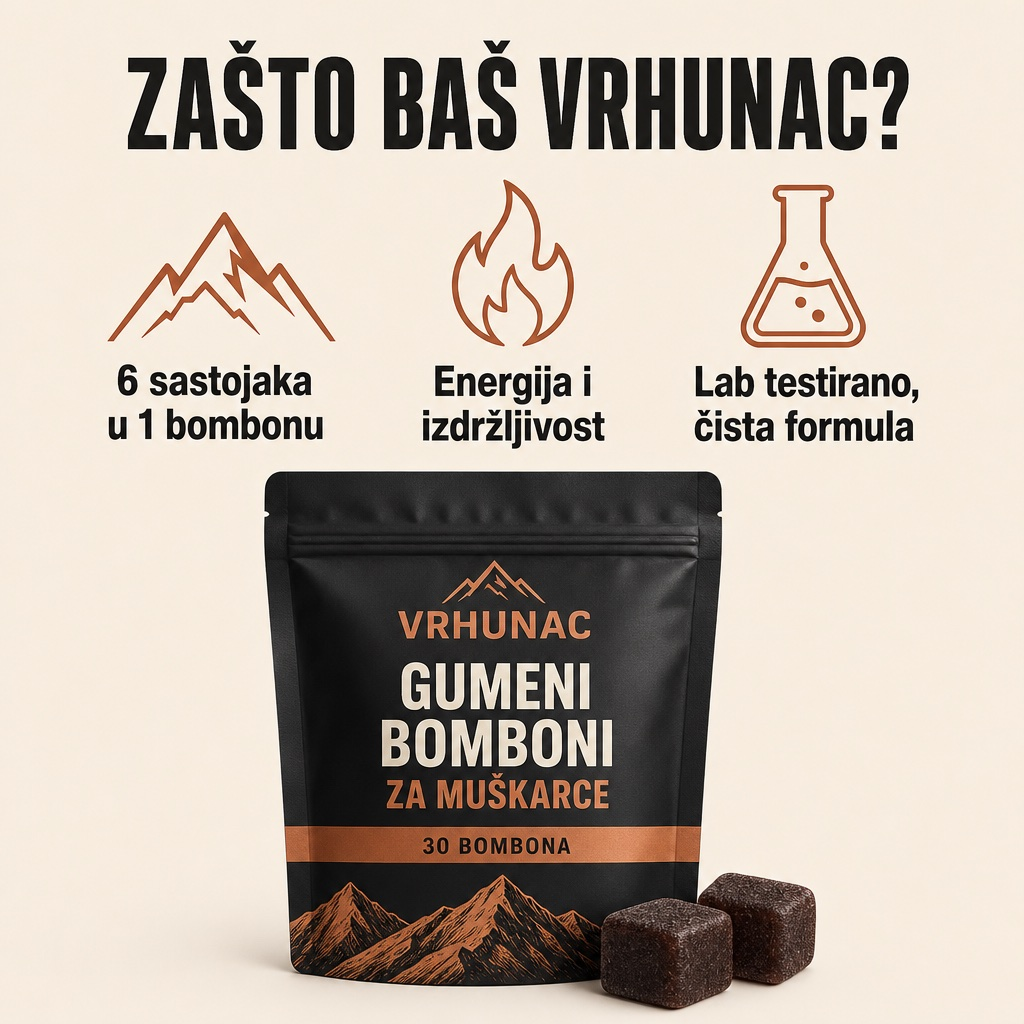
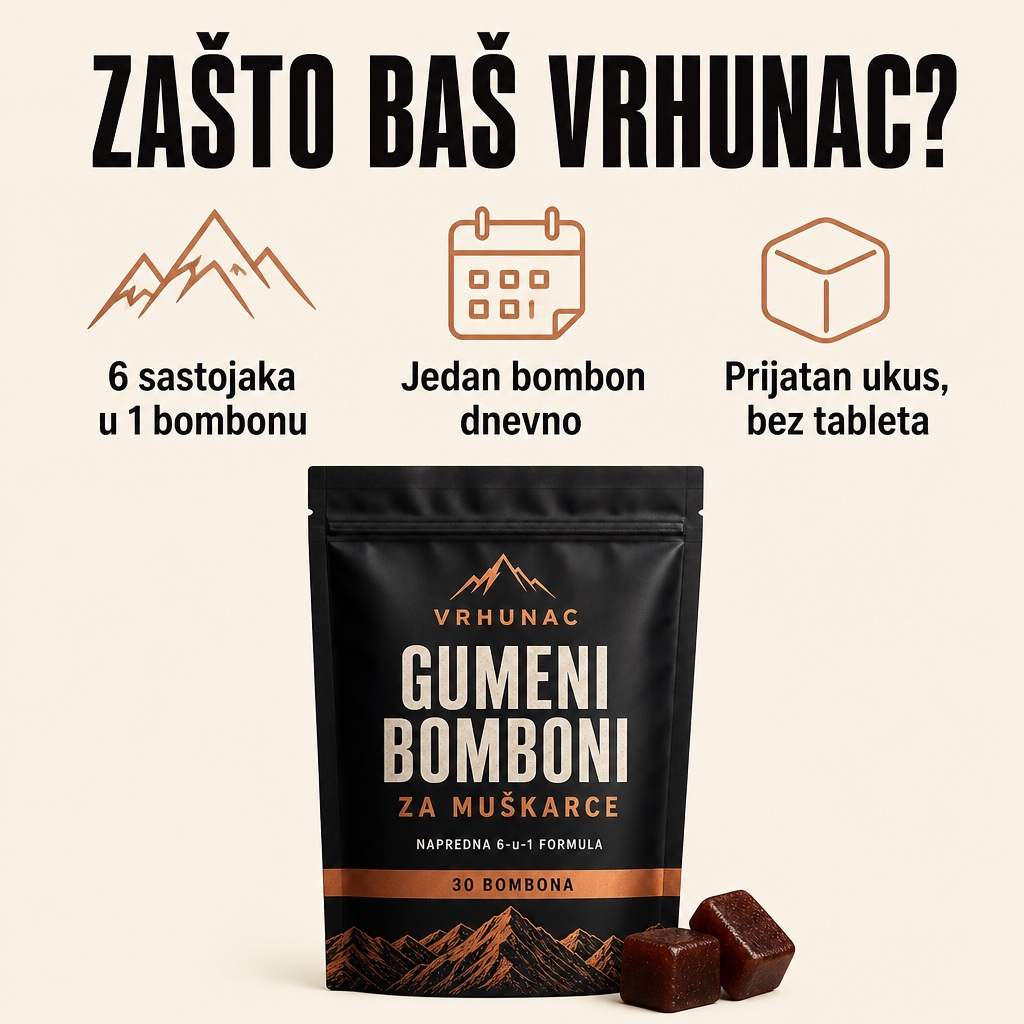
deploy 2026-08-17-1118

Changed region(s): [[0.0938, 0.0312, 0.9375, 1.0], [0.3125, 0.3125, 0.3438, 0.3438]]

diff --git a/vrhunac-gumice-2/index.html b/vrhunac-gumice-2/index.html
@@ -289,7 +289,7 @@ img{height:auto}
     <img src="assets/product.jpg" alt="VRHUNAC kutija — 30 bombona" loading="lazy" decoding="async">
     <img src="assets/benefits.jpg" alt="Zašto baš VRHUNAC" loading="lazy" decoding="async">
     <img src="assets/howto.jpg" alt="Rutina od 5 sekundi" loading="lazy" decoding="async">
-    <img src="assets/lifestyle.jpg" alt="Energija za ceo dan" loading="lazy" decoding="async">
+    <img src="assets/lifestyle.jpg" alt="Muškarac na planinskom vrhu u zoru" loading="lazy" decoding="async">
     <img src="assets/holding.jpg" alt="VRHUNAC u ruci" loading="lazy" decoding="async">
   </div>
   <button class="arr p" onclick="sl(-1)" aria-label="Prethodna">‹</button>
@@ -302,14 +302,14 @@ img{height:auto}
   <div class="rate"><span class="st">★★★★★</span><span>Ocena <b>4,5/5</b> — hiljade kupaca</span></div>
 
   <!-- 5. h1 -->
-  <h1 class="ph1">Gumeni bomboni za muškarce. Tvoja 6-u-1 podrška.</h1>
+  <h1 class="ph1">Gumeni bomboni za muškarce. Šest sastojaka u jednom bombonu.</h1>
 
   <!-- 6. bullets -->
   <ul class="blts">
     <li><span class="ic">🌄</span><div><b>Šilajit — 2000mg po dnevnoj dozi</b><span>Planinska smola sa vekovnom tradicijom.</span></div></li>
     <li><span class="ic">🌿</span><div><b>Prirodni sastojci za muškarce</b><span>Ašvaganda KSM-66, maka i gokšura — tradicionalno cenjeni sastojci.</span></div></li>
     <li><span class="ic">⚡</span><div><b>Jedan bombon dnevno</b><span>Rutina od 5 sekundi, uz jutarnju kafu.</span></div></li>
-    <li><span class="ic">🧪</span><div><b>Čista formula, laboratorijski testirana</b><span>Bez veštačkih boja, svaka serija testirana na čistoću.</span></div></li>
+    <li><span class="ic">🍬</span><div><b>Čista formula, bez veštačkih boja</b><span>Šest sastojaka sa jasno navedenim dozama — i ništa preko toga.</span></div></li>
   </ul>
   <a class="suplink" href="#sastav">Sastav</a>
 
@@ -333,12 +333,12 @@ img{height:auto}
   <!-- 12. stock -->
   <div class="stockline"><span class="dotok">●</span><span>Na stanju</span><span>🚚 Isporuka za 2–4 radna dana</span></div>
 
-  <!-- 13. quality card (source has a doctor quote here — we use a brand quality statement instead of an invented expert) -->
+  <!-- 13. quality card (source has a doctor quote here — we use a brand statement instead of an invented expert; no lab/GMP claims until supplier documentation exists) -->
   <div class="qcard">
-    <div class="qic">🧪</div>
-    <p>„Svaka serija VRHUNAC bombona prolazi laboratorijsko testiranje na čistoću i sastav. Šest sastojaka, tačno dozirano, bez prečica — jer rutina vredi samo ako joj veruješ.”</p>
-    <div class="who">VRHUNAC kontrola kvaliteta</div>
-    <div class="sub">Laboratorijski testirano · GMP proizvodnja</div>
+    <div class="qic">▲</div>
+    <p>„Šest bočica na polici ne čini rutinu — čini nered. Zato smo šest sastojaka spakovali u jedan bombon prijatnog ukusa: jedna odluka ujutru, i to je to.”</p>
+    <div class="who">VRHUNAC tim</div>
+    <div class="sub">6-u-1 formula · Jedan bombon dnevno</div>
   </div>
 
   <!-- 14. fuel grid -->
@@ -368,7 +368,7 @@ img{height:auto}
     </details>
     <details>
       <summary>Sastav</summary>
-      <div class="bd"><p>Šilajit (2000mg po dnevnoj dozi), ašvaganda KSM-66 (450mg), maka, gokšura (tribulus), L-arginin, đumbir.</p><p>Svaka serija je laboratorijski testirana na čistoću i sastav.</p></div>
+      <div class="bd"><p>Šilajit (2000mg po dnevnoj dozi), ašvaganda KSM-66 (450mg), maka, gokšura (tribulus), L-arginin, đumbir.</p></div>
     </details>
     <details>
       <summary>Isporuka i povraćaj</summary>
@@ -417,22 +417,20 @@ img{height:auto}
         <h3>▲ VRHUNAC</h3>
         <ul>
           <li><span class="y">✓</span>6 sastojaka u jednom bombonu</li>
-          <li><span class="y">✓</span>Standardizovane forme sastojaka</li>
+          <li><span class="y">✓</span>Standardizovane forme sastojaka (KSM-66)</li>
           <li><span class="y">✓</span>Prijatan ukus — rutina koja se ne preskače</li>
           <li><span class="y">✓</span>Bez veštačkih boja i punila</li>
-          <li><span class="y">✓</span>Laboratorijski testirana svaka serija</li>
-          <li><span class="y">✓</span>GMP proizvodnja</li>
+          <li><span class="y">✓</span>Jedna kutija pokriva ceo mesec</li>
         </ul>
       </div>
       <div class="dcol them">
         <h3>Obični suplementi</h3>
         <ul>
-          <li><span class="x">✕</span>Poddozirani i neprovereni</li>
+          <li><span class="x">✕</span>Šest bočica za šest sastojaka</li>
           <li><span class="x">✕</span>Jedan sastojak, ostalo ignorišu</li>
           <li><span class="x">✕</span>Tablete koje stoje u fioci</li>
           <li><span class="x">✕</span>Punila, veziva i jeftini dodaci</li>
-          <li><span class="x">✕</span>Bez testiranja serija</li>
-          <li><span class="x">✕</span>Etiketa važnija od sadržaja</li>
+          <li><span class="x">✕</span>Rutina koja se zaboravi do petka</li>
         </ul>
       </div>
     </div>
@@ -443,7 +441,7 @@ img{height:auto}
     <!-- 21. package facts (the source shows an invented survey here — we show verifiable package facts instead) -->
     <div class="stats">
       <h2 style="font-size:21px">Brojke koje stoje na kutiji</h2>
-      <div class="stat"><b>2000<small style="font-size:16px">mg</small></b><span>čistog šilajita po dnevnoj dozi</span></div>
+      <div class="stat"><b>2000<small style="font-size:16px">mg</small></b><span>šilajita po dnevnoj dozi</span></div>
       <div class="stat"><b>450<small style="font-size:16px">mg</small></b><span>ašvagande u standardizovanoj KSM-66 formi</span></div>
       <div class="stat"><b>30</b><span>bombona u kutiji — ceo mesec rutine uz 1 dnevno</span></div>
     </div>
@@ -458,9 +456,9 @@ img{height:auto}
   <div class="wrap">
     <h2>Vrhunac je za tebe ako…</h2>
     <ul>
-      <li><span class="c">✓</span>Energija ti pada već sredinom dana, a jutro počinje na rezervi</li>
-      <li><span class="c">✓</span>Kafa je prestala da bude rešenje — samo odlaže umor</li>
-      <li><span class="c">✓</span>Trening sve češće preskačeš jer „nemaš iz čega"</li>
+      <li><span class="c">✓</span>Dan ti počinje rano i ne staje do kasno uveče</li>
+      <li><span class="c">✓</span>Polica sa suplementima ti liči na apoteku — šest bočica, šest odluka svako jutro</li>
+      <li><span class="c">✓</span>Svaki suplement koji traži čašu vode, tajming i merenje — zaboraviš do petka</li>
       <li><span class="c">✓</span>Tempo posla i porodice ti ne ostavlja prostor za komplikovane rutine</li>
       <li><span class="c">✓</span>Probao si tablete i praškove — i odustao posle nedelju dana</li>
       <li><span class="c">✓</span>Želiš jednostavnu naviku sa sastojcima kojima veruješ</li>
@@ -470,21 +468,21 @@ img{height:auto}
 
 <div class="wrap">
   <!-- 24. lifestyle -->
-  <img src="assets/lifestyle.jpg" alt="Energija za ceo dan" loading="lazy" decoding="async" style="border-radius:16px;margin:16px 0 4px">
+  <img src="assets/lifestyle.jpg" alt="Muškarac na planinskom vrhu u zoru" loading="lazy" decoding="async" style="border-radius:16px;margin:16px 0 4px">
 
   <!-- 25. ingredients -->
   <section class="ing">
     <h2><em>Moćni sastojci</em> za tvoj vrhunac</h2>
     <div class="irow">
-      <div class="icard"><div class="em">🧘</div><h3>Ašvaganda KSM-66</h3><p>Najproučavaniji adaptogen — tradicionalno se koristi za smirenost i otpornost na svakodnevni stres.</p></div>
-      <div class="icard"><div class="em">🌄</div><h3>Šilajit</h3><p>Planinska smola bogata mineralima, vekovima cenjena u tradiciji Himalaja.</p></div>
-      <div class="icard"><div class="em">🌱</div><h3>Maka</h3><p>Koren iz Anda koji se tradicionalno koristi za vitalnost i izdržljivost.</p></div>
+      <div class="icard"><div class="em">🧘</div><h3>Ašvaganda KSM-66</h3><p>Biljka sa dugom ajurvedskom tradicijom — ovde u standardizovanoj KSM-66 formi, 450mg po dozi.</p></div>
+      <div class="icard"><div class="em">🌄</div><h3>Šilajit</h3><p>Planinska smola, vekovima cenjena u tradiciji Himalaja — 2000mg po dnevnoj dozi.</p></div>
+      <div class="icard"><div class="em">🌱</div><h3>Maka</h3><p>Koren iz Anda, vekovima deo svakodnevne ishrane u Peruu.</p></div>
       <div class="icard"><div class="em">🌿</div><h3>Gokšura</h3><p>Tribulus terrestris — biljka sa dugom tradicijom u muškim formulama.</p></div>
       <div class="icard"><div class="em">💪</div><h3>L-arginin</h3><p>Aminokiselina dobro poznata svakome ko je kročio u teretanu.</p></div>
       <div class="icard"><div class="em">🫚</div><h3>Đumbir</h3><p>Koren koji se hiljadama godina koristi u tradicionalnoj ishrani.</p></div>
     </div>
     <div class="shopcta"><button class="atc" onclick="kupi()">PORUČI ODMAH</button></div>
-    <div class="tlines"><span>🧪 Laboratorijski testirano</span><span>🌿 Prirodni sastojci</span></div>
+    <div class="tlines"><span>🍬 Jedan bombon dnevno</span><span>🌿 Prirodni sastojci</span></div>
   </section>
 
   <!-- 26. reviews (written PLACEHOLDERS — replace with real verified reviews before ads) -->
@@ -567,8 +565,9 @@ function renderOpts(){
   const o = OPTS[sel];
   const label = 'DODAJ U KORPU — ' + fmt(o.total) + (o.ship ? ' + dostava' : '');
   document.getElementById('atc').textContent = label;
+  /* sticky label = price only (owner compact-sticky rule) — "+ dostava" stays on the on-page ATC */
   const a2 = document.getElementById('atc2');
-  if (a2) a2.textContent = label;
+  if (a2) a2.textContent = 'DODAJ U KORPU — ' + fmt(o.total);
 }
 function pickOpt(i){ sel = i; renderOpts(); }
 /* REAL cart quantity: one line, quantity = tier qty — the Shopify variant is

diff --git a/vrhunac-gumice/index.html b/vrhunac-gumice/index.html
@@ -407,7 +407,7 @@ footer .disc{margin-top:12px;font-size:11px;line-height:1.5;text-align:left}
     <img src="assets/product.jpg" alt="VRHUNAC kutija — 30 bombona" loading="lazy" decoding="async" width="1024" height="1024" data-thumb="assets/thumbs/product.jpg">
     <img src="assets/benefits.jpg" alt="Zašto baš VRHUNAC" loading="lazy" decoding="async" width="1024" height="1024" data-thumb="assets/thumbs/benefits.jpg">
     <img src="assets/howto.jpg" alt="Rutina od 5 sekundi" loading="lazy" decoding="async" width="1024" height="1024" data-thumb="assets/thumbs/howto.jpg">
-    <img src="assets/lifestyle.jpg" alt="Energija za ceo dan" loading="lazy" decoding="async" width="1024" height="1024" data-thumb="assets/thumbs/lifestyle.jpg">
+    <img src="assets/lifestyle.jpg" alt="Muškarac na planinskom vrhu u zoru" loading="lazy" decoding="async" width="1024" height="1024" data-thumb="assets/thumbs/lifestyle.jpg">
     <img src="assets/holding.jpg" alt="VRHUNAC u ruci" loading="lazy" decoding="async" width="1024" height="1024" data-thumb="assets/thumbs/holding.jpg">
   </div>
   <button class="arrow prev" onclick="slide(-1)" aria-label="&#8249;">‹</button>
@@ -468,13 +468,13 @@ footer .disc{margin-top:12px;font-size:11px;line-height:1.5;text-align:left}
     <h3>Kako funkcioniše porudžbina</h3>
     <ul>
       <li><span class="ok">✓</span><span>Plaćaš <b>pouzećem</b> — tek kada ti kurir donese paket.</span></li>
-      <li><span class="ok">✓</span><span>Isporuka za <b>2–4 radna dana</b> na celoj teritoriji Srbije.</span></li>
+      <li><span class="ok">✓</span><span>Isporuka za <b>1–2 radna dana</b> na celoj teritoriji Srbije.</span></li>
       <li><span class="ok">✓</span><span>Bez pretplate i bez skrivenih troškova — plaćaš jednom.</span></li>
     </ul>
     <div class="hr"></div>
     <div class="buyonce">
       <a href="#tiers" onclick="pick(0);return false;">SAMO 1 KUTIJA — 3.999 RSD + dostava</a>
-      <p>Najviše se isplati paket 3+2 gratis — pet kutija pokriva pet meseci, a dostava ti je besplatna.</p>
+      <p>Najviše se isplati paket od 3 kutije — tri meseca zaredom, najniža cena po kutiji i dostava ti je besplatna.</p>
     </div>
   </div>
 </div>
@@ -560,7 +560,7 @@ footer .disc{margin-top:12px;font-size:11px;line-height:1.5;text-align:left}
         <tr><td>6 sastojaka u jednom bombonu</td><td class="us"><span class="yes">✓</span></td><td><span class="no">✕</span></td><td><span class="no">✕</span></td></tr>
         <tr><td>Bez gutanja tableta</td><td class="us"><span class="yes">✓</span></td><td><span class="no">✕</span></td><td><span class="yes">✓</span></td></tr>
         <tr><td>Jedan bombon umesto šest bočica</td><td class="us"><span class="yes">✓</span></td><td><span class="no">✕</span></td><td><span class="no">✕</span></td></tr>
-        <tr><td>Laboratorijski testirano</td><td class="us"><span class="yes">✓</span></td><td><span class="no">✕</span></td><td><span class="no">✕</span></td></tr>
+        <tr><td>Jedna kutija pokriva ceo mesec</td><td class="us"><span class="yes">✓</span></td><td><span class="yes">✓</span></td><td><span class="no">✕</span></td></tr>
         <tr><td>Rutina od 5 sekundi</td><td class="us"><span class="yes">✓</span></td><td><span class="yes">✓</span></td><td><span class="no">✕</span></td></tr>
       </tbody>
     </table>
@@ -571,12 +571,12 @@ footer .disc{margin-top:12px;font-size:11px;line-height:1.5;text-align:left}
 <div class="wrap">
   <section class="faq">
     <h2 class="display">ČESTA PITANJA</h2>
-    <details open><summary>Šta se nalazi u bombonima?</summary><p>Šest sastojaka: šilajit (2000mg po dnevnoj dozi), ašvaganda u standardizovanoj KSM-66 formi (450mg), maka, gokšura, L-arginin i đumbir. Bez veštačkih boja, svaka serija je laboratorijski testirana.</p></details>
+    <details open><summary>Šta se nalazi u bombonima?</summary><p>Šest sastojaka: šilajit (2000mg po dnevnoj dozi), ašvaganda u standardizovanoj KSM-66 formi (450mg), maka, gokšura, L-arginin i đumbir. Bez veštačkih boja.</p></details>
     <details><summary>Kako se koriste?</summary><p>Jedan bombon dnevno, najbolje ujutru uz doručak. Jedna kutija sadrži 30 bombona — tačno mesec dana rutine.</p></details>
     <details><summary>Koliko dugo se koristi?</summary><p>Jedan bombon dnevno, uz doručak. Jedna kutija pokriva 30 dana — doslednost je poenta, zato se najviše isplati paket 3+2 gratis.</p></details>
-    <details><summary>Da li bomboni mogu svi da koriste?</summary><p>Namenjene su odraslim muškarcima. Ako uzimaš terapiju, imaš zdravstveno stanje ili nedoumice — posavetuj se sa lekarom ili farmaceutom pre upotrebe.</p></details>
+    <details><summary>Da li bombone mogu svi da koriste?</summary><p>Namenjeni su odraslim muškarcima. Ako uzimaš terapiju, imaš zdravstveno stanje ili nedoumice — posavetuj se sa lekarom ili farmaceutom pre upotrebe.</p></details>
     <details><summary>Kako plaćam?</summary><p>Pouzećem — gotovinom ili karticom kod kurira, tek kada ti paket stigne na vrata. Ne plaćaš ništa unapred.</p></details>
-    <details><summary>Koliko traje isporuka?</summary><p>2–4 radna dana na celoj teritoriji Srbije. Dostava je besplatna za pakete od 3 i više kutija.</p></details>
+    <details><summary>Koliko traje isporuka?</summary><p>1–2 radna dana na celoj teritoriji Srbije. Dostava je besplatna za pakete od 3 i više kutija.</p></details>
     <details><summary>Da li mogu da vratim proizvod?</summary><p>Ako se predomisliš, neotvoren proizvod možeš da vratiš u roku od 30 dana i dobiješ pun povraćaj novca — bez objašnjavanja i bez komplikacija.</p></details>
   </section>
 </div>
@@ -610,7 +610,7 @@ const CFG = {
   "numberLocale": "de-DE",
   "compareAt": 9999,
   "defaultTier": 0,
-  "freeShippingQty": 3,
+  "freeShippingQty": 2,
   "checkoutBase": "https://rs.unikatko.eu",
   "perUnitVariants": false,
   "colors": [],
@@ -624,27 +624,30 @@ const CFG = {
       "cls": null,
       "oos": false,
       "variantId": "57237796684041",
-      "cartQty": 1
+      "cartQty": 1,
+      "variantPrice": 3999
     },
     {
-      "qty": 3,
+      "qty": 2,
       "unit": 2666,
-      "name": "3 KUTIJE (2+1)",
+      "name": "2 KUTIJE",
       "badge": "NAJPOPULARNIJE",
       "cls": "pop",
       "oos": false,
       "variantId": "57237796716809",
-      "cartQty": 3
+      "cartQty": 2,
+      "variantPrice": 2666
     },
     {
-      "qty": 5,
+      "qty": 3,
       "unit": 2399,
-      "name": "5 KUTIJA (3+2)",
+      "name": "3 KUTIJE",
       "badge": "NAJBOLJA PONUDA",
       "cls": "best",
       "oos": false,
       "variantId": "57237796749577",
-      "cartQty": 5
+      "cartQty": 3,
+      "variantPrice": 2399
     }
   ],
   "gifts": [
@@ -656,14 +659,14 @@ const CFG = {
       "img": null
     },
     {
-      "at": 3,
+      "at": 2,
       "cap": "Besplatna dostava",
       "value": 490,
       "emoji": "🚚",
       "img": null
     },
     {
-      "at": 5,
+      "at": 3,
       "cap": "Poklon iznenađenja",
       "value": 1490,
       "emoji": null,
